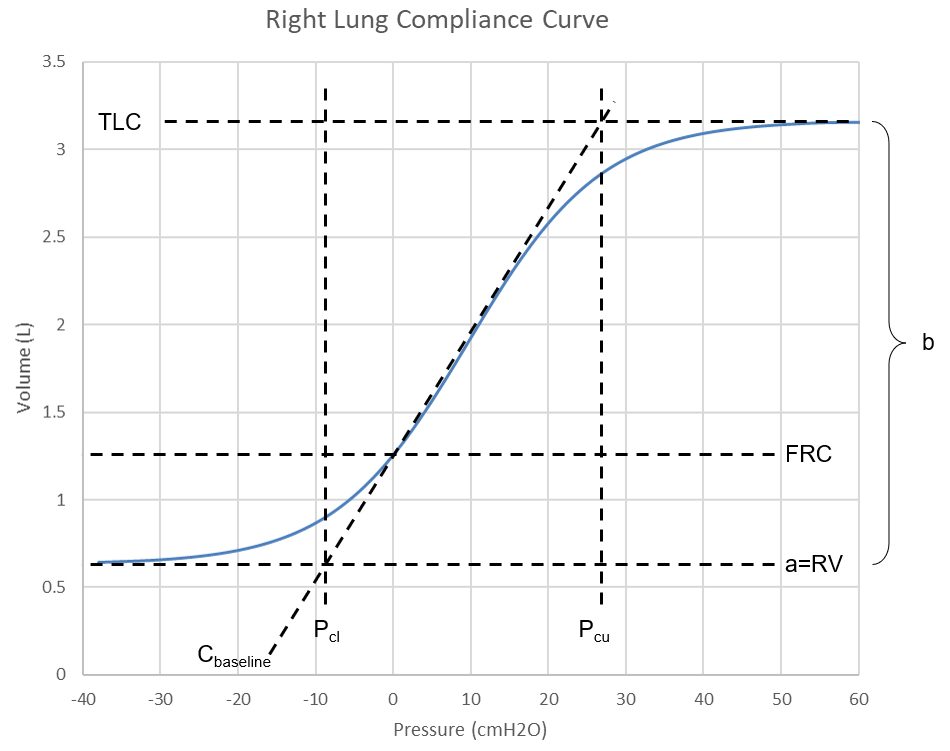
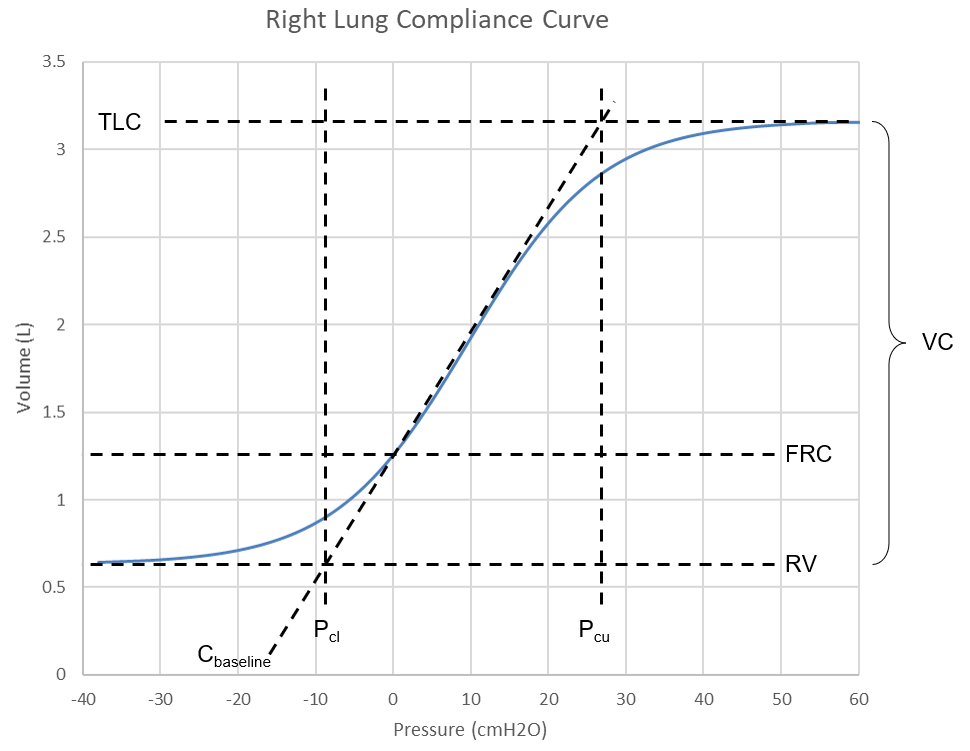
Tweak to respiratory plot and equations.

diff --git a/docs/Methodology/RespiratoryMethodology.md b/docs/Methodology/RespiratoryMethodology.md
@@ -436,7 +436,7 @@ The Pulse respiratory system is separated into four compliances (see the circuit
 
 The waveform in Figure 6 is defined by these mathematical relationships,
 
-\f[V = a + \frac{b}{{1 + {e^{{{ - \left( {P - c} \right)} \mathord{\left/
+\f[V = RV + \frac{{VC}}{{1 + {e^{{{ - \left( {P - c} \right)} \mathord{\left/
  {\vphantom {{ - \left( {P - c} \right)} d}} \right.
  \kern-\nulldelimiterspace} d}}}}}\f]
 <center>
@@ -467,31 +467,36 @@ The expected intrapulmonary pressure (<i>P</i>) at the a given volume (<i>V</i>)
 <i>Equation 18.</i>
 </center><br> 
 
-\f[c =  - \frac{{{P_{cu}}\lambda \left( {2 - \lambda } \right)}}{2}\f]
+\f[{P_{cu}} = \frac{{VC - FRC}}{{{C_{sb}}}}\f]
 <center>
 <i>Equation 19.</i>
 </center><br> 
 
-\f[d = \frac{{{P_{cu}} - c}}{2}\f]
+\f[c =  - \frac{{{P_{cu}}\lambda \left( {2 - \lambda } \right)}}{2}\f]
 <center>
 <i>Equation 20.</i>
 </center><br> 
 
-\f[P = d \cdot \ln \left( {\frac{{V - RV}}{{RV + VC - V}}} \right) + c\f]
+\f[d = \frac{{{P_{cu}} - c}}{2}\f]
 <center>
 <i>Equation 21.</i>
+</center><br> 
+
+\f[P = d \cdot \ln \left( {\frac{{V - RV}}{{RV + VC - V}}} \right) + c\f]
+<center>
+<i>Equation 22.</i>
 </center><br> 
 
 Then, the instantaneous chest wall compliance (<i>C<sub>cw</sub></i>) to apply at the current timestep is found using the side compliance (<i>C<sub>s</sub></i>) by,
 
 \f[{C_s} = \frac{{V - FRC}}{P}\f]
 <center>
-<i>Equation 22.</i>
+<i>Equation 23.</i>
 </center><br> 
 
 \f[{C_{cw}} = \frac{1}{{\frac{1}{{{C_s}}} - \frac{1}{{{C_{lb}}}}}}\f]
 <center>
-<i>Equation 23.</i>
+<i>Equation 24.</i>
 </center><br> 
 
 #### Standard Lung Volumes and Capacities
@@ -532,7 +537,7 @@ maximal forced expiration. ERV can be calculated as
 
 \f[ERV=FRC-RV\f] 
 <center>
-<i>Equation 24.</i>
+<i>Equation 25.</i>
 </center><br> 
 
 In this equation, both FRC and RV are input values obtained from weight-based
@@ -570,7 +575,7 @@ capacity (TLC) using the relation
 
 \f[IRV=TLC-FRC-V_{T} \f] 
 <center>
-<i>Equation 25.</i>
+<i>Equation 26.</i>
 </center><br> 
 
 Both TLC and FRC are weight-based inputs to the model, whereas V<sub>T</sub> is calculated
@@ -588,14 +593,14 @@ calculated as
 
 \f[V_{C} =IRV+V_{T} +ERV\f] 
 <center>
-<i>Equation 26.</i>
+<i>Equation 27.</i>
 </center><br> 
 
 V<sub>C</sub>  can also be calculated using TLC as:
 
 \f[V_{C} =TLC-RV\f] 
 <center>
-<i>Equation 27.</i>
+<i>Equation 28.</i>
 </center><br> 
 
 Again, both TLC and RV are weight-based inputs to the model, and V<sub>T</sub> is calculated
@@ -611,7 +616,7 @@ calculated from TLC and FRC as
 
 \f[IC=TLC-FRC\f] 
 <center>
-<i>Equation 28.</i>
+<i>Equation 29.</i>
 </center><br> 
 
 In the model, both TLC and FRC are weight-based input variables, and IC can be
@@ -641,7 +646,7 @@ product of tidal volume (V<sub>T</sub>) and respiration rate (RR), i.e.,
 
 \f[\dot{V}_{E} =V_{T} *RR\f] 
 <center>
-<i>Equation 29.</i>
+<i>Equation 30.</i>
 </center><br> 
 
 The %Respiratory Model calculates both V<sub>T</sub> and RR from the simulation data. 
@@ -684,7 +689,7 @@ resistance <i>R<sub>trachea</sub></i> as:
 
 \f[Q_{trachea} =\frac{P_{mouth} -P_{carina} }{R_{trachea} } \f] 
 <center>
-<i>Equation 30.</i>
+<i>Equation 31.</i>
 </center><br> 
 
 <i>P<sub>mouth</sub></i> and <i>P<sub>carina</sub></i> are the pressures at the mouth and the carina nodes,
@@ -788,7 +793,7 @@ mixture and the fractional concentration F<sub>gas</sub> of the gas as
 
 \f[P_{gas} =F_{gas} *P_{total} \f] 
 <center>
-<i>Equation 31.</i>
+<i>Equation 32.</i>
 </center><br> 
 
 The %Respiratory Model calculates the partial pressure of a gas at any node
@@ -807,7 +812,7 @@ pressure P<sub>Lung</sub/> at the alveoli nodes as
 
 \f[P_{LungO_{2} } =VF_{LungO_{2} } *P_{Lung} \f] 
 <center>
-<i>Equation 32.</i>
+<i>Equation 33.</i>
 </center><br> 
 
 The alveolar O<SUB>2</SUB> partial pressure can thus be determined by taking the average of
@@ -822,7 +827,7 @@ calculated using the absolute lung pressure, i.e.,
 
 \f[P_{LungO_{2} } =VF_{LungO_{2} } *(P_{B} -P_{H_{2} O} +P_{Lung} )\f] 
 <center>
-<i>Equation 33.</i>
+<i>Equation 34.</i>
 </center><br> 
 
 Figure 13 depicts the plot of P<sub>LungO<SUB>2</SUB></sub>  for the left and right alveoli
@@ -972,7 +977,7 @@ the flow across the trachea <i>Q<sub>trachea</sub></i> as
 
 \f[R_{pulm} =\frac{P_{mouth} -P_{alveoli} }{Q_{trachea} } \f] 
 <center>
-<i>Equation 34.</i>
+<i>Equation 35.</i>
 </center><br> 
 
 The %Respiratory Model calculates the pulmonary compliance <i>C<sub>pulm</sub></i> by dividing the tidal 
@@ -980,7 +985,7 @@ volume <i>V<sub>T</sub></i> by the intrapleural pressure <i>P<sub>pleu</sub></i>
 
 \f[C_{pulm} =\frac{V_{T} }{P_{pleau(max )} -P_{pleu(min )} } \f] 
 <center>
-<i>Equation 35.</i>
+<i>Equation 36.</i>
 </center><br> 
  
 Here <i>P<sub>pleu(min)</sub></i> and <i>P<sub>pleu(max)</sub></i> are the minimum and maximum respective pressures at the 
